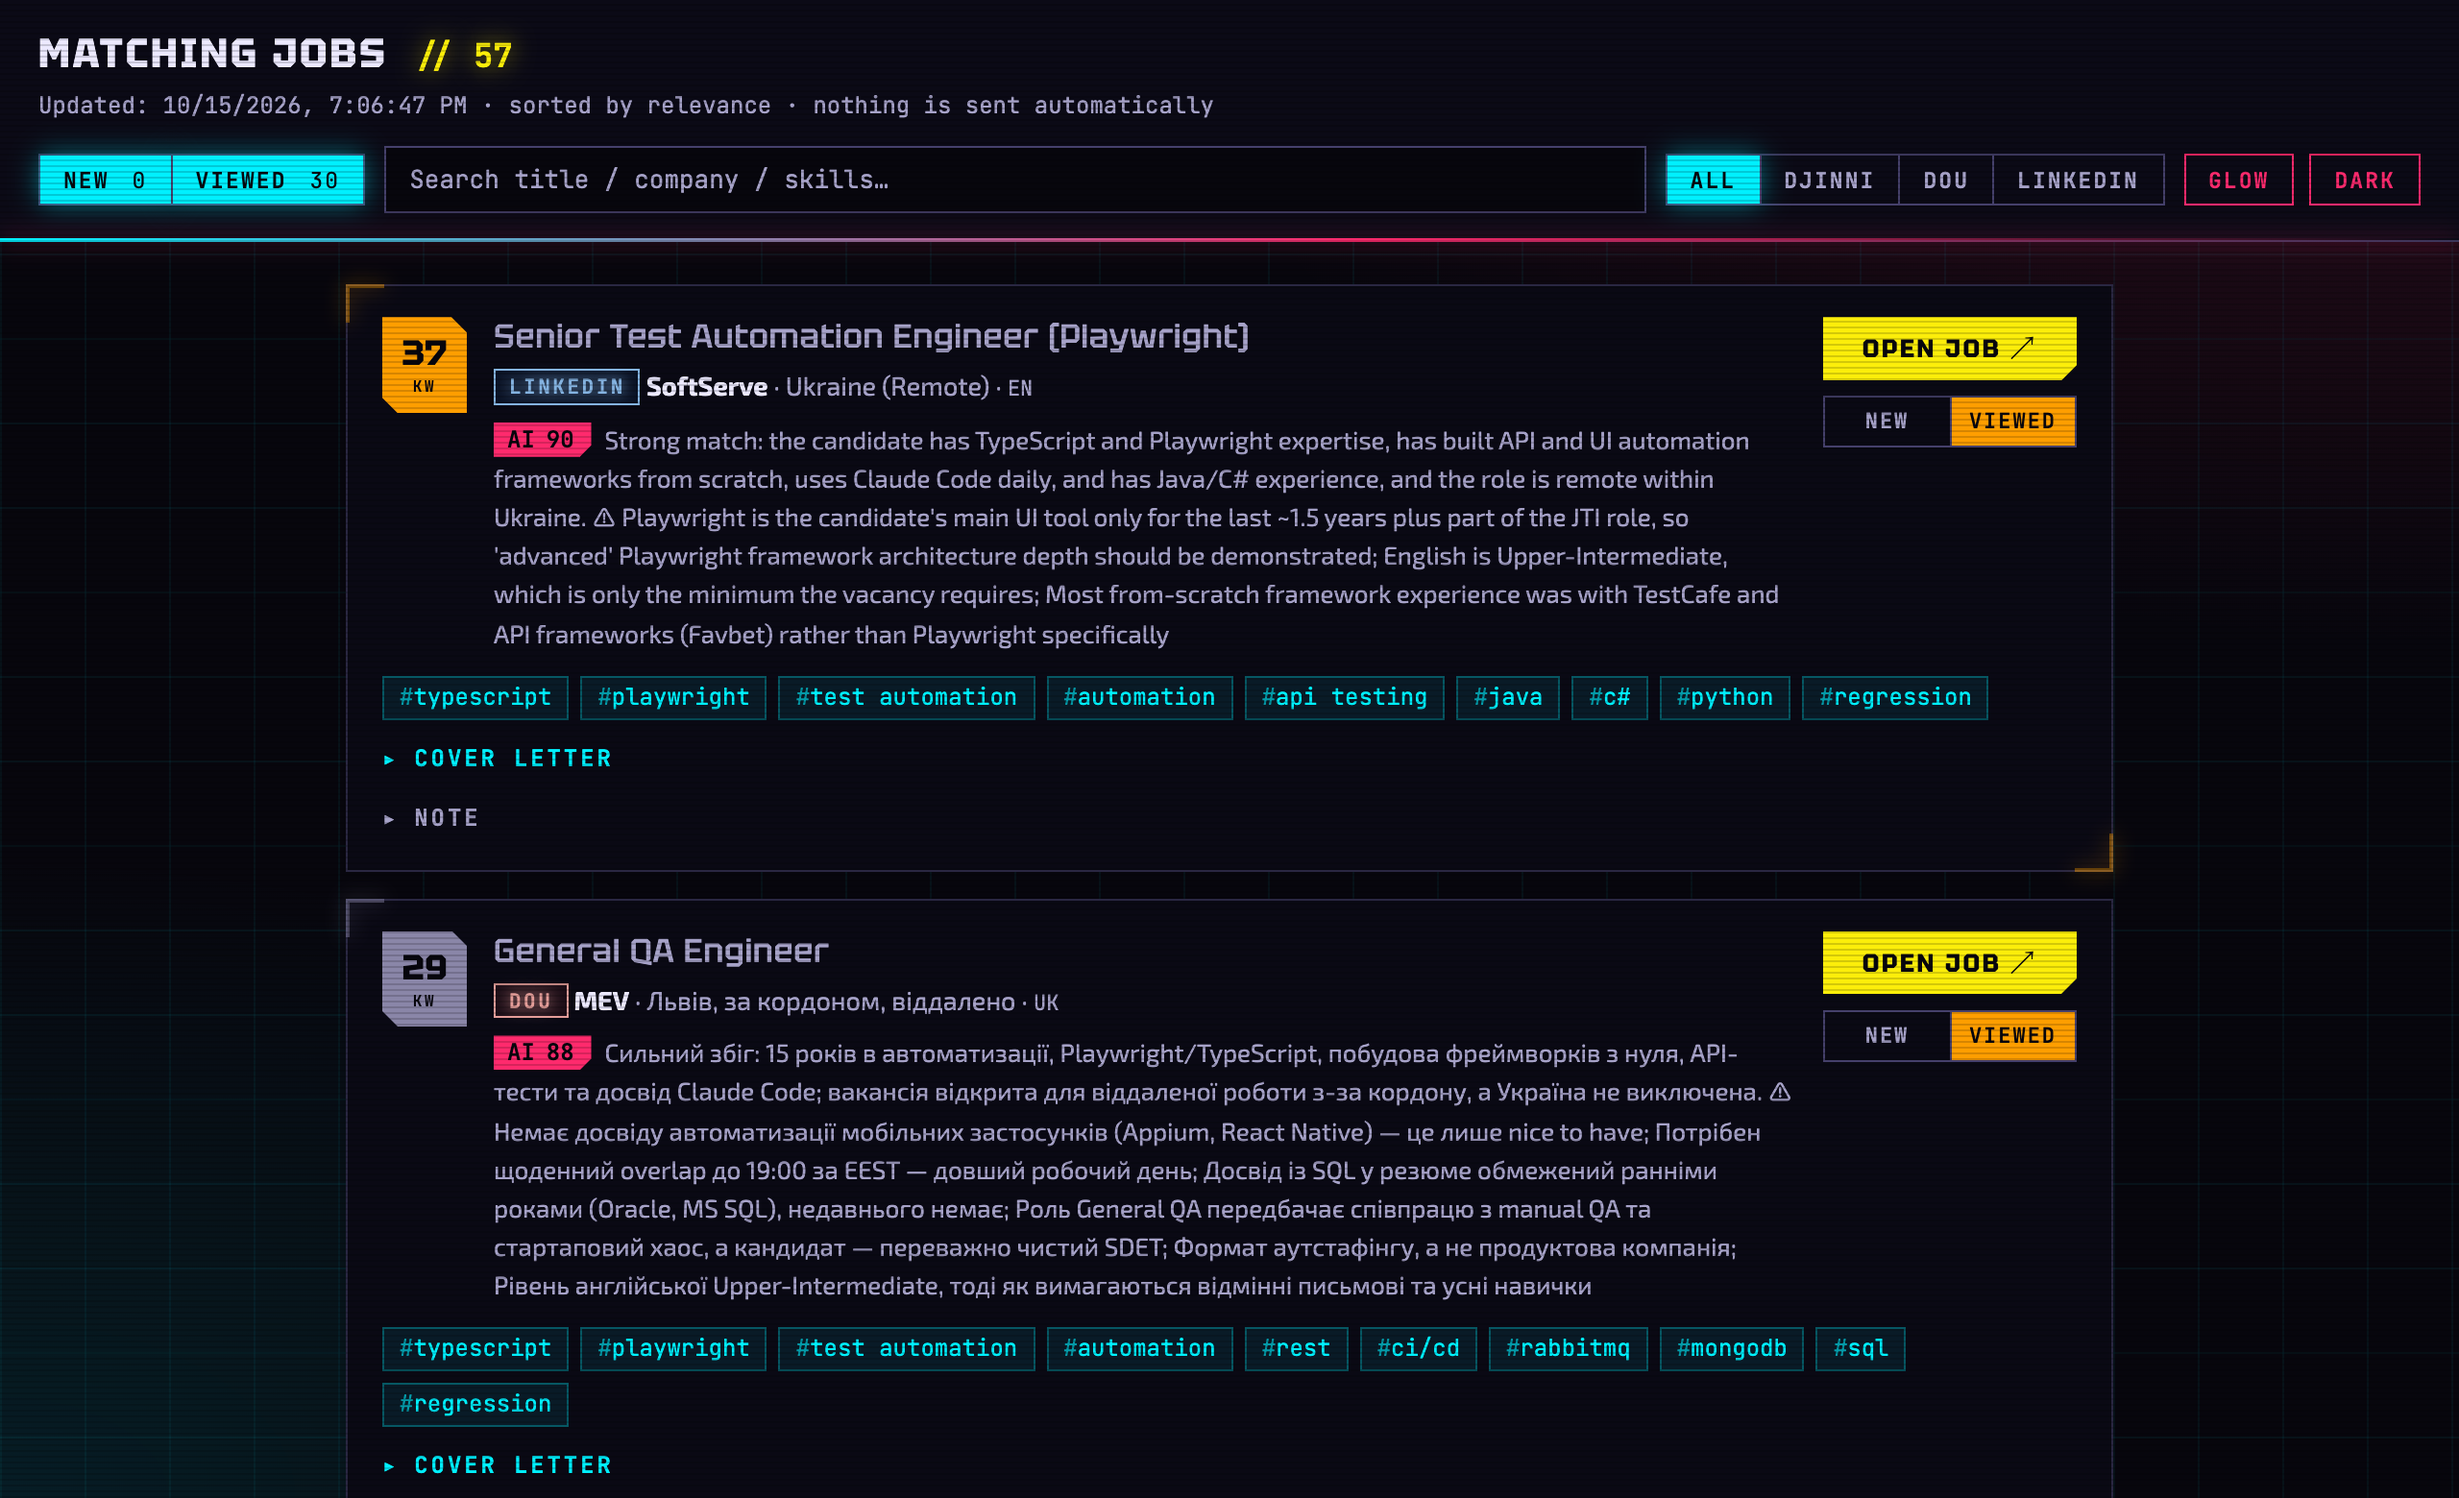
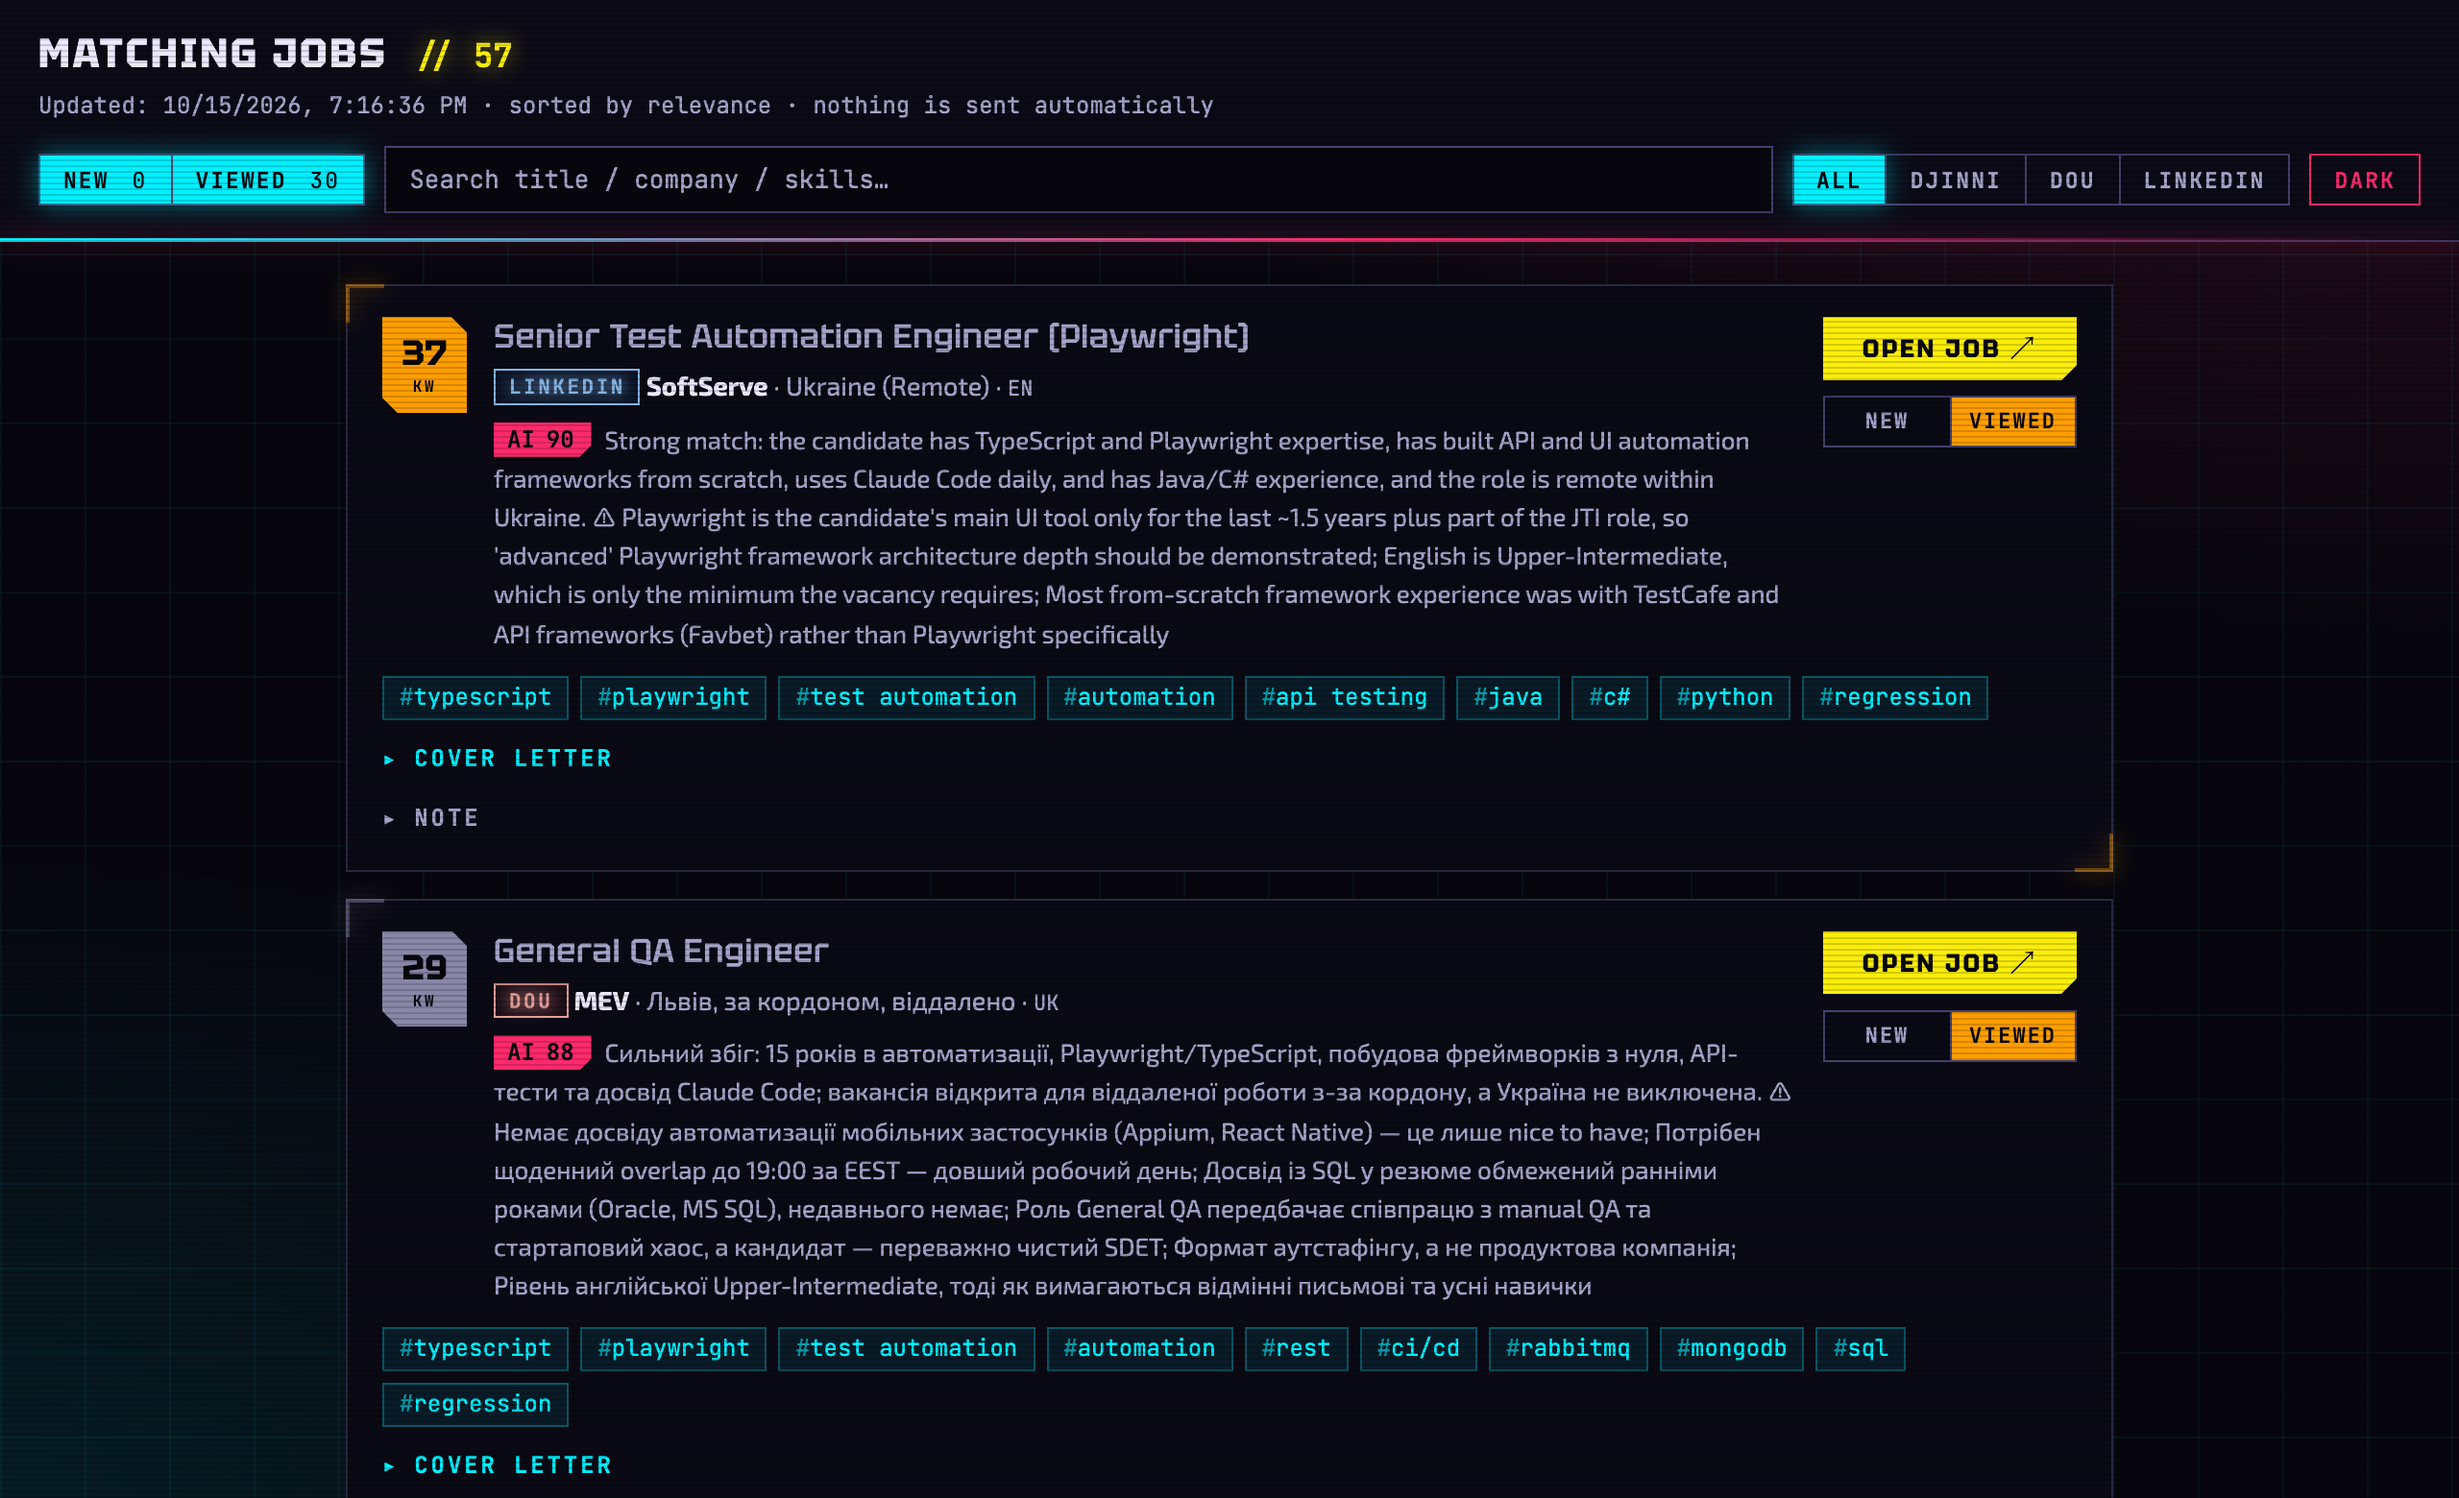
Drop the Glow toggle; Dark is the one header button, lit magenta
Two preference buttons crowded the toolbar. The dark theme now always
has its glow (halos, scanlines, title glitch), and the Dark button
takes the magenta "on" look the Glow button had, in both themes;
aria-pressed still carries which theme is pinned. The jobGlow key is
no longer read. prefers-reduced-motion still stops the animations.
Header screenshots retaken.

Changed region(s): [[0.6562, 0.0923, 0.9375, 0.1538]]

diff --git a/lib/dashboard-client-dom.js b/lib/dashboard-client-dom.js
@@ -354,25 +354,8 @@ function toggleTheme(){
   syncThemeButton();
 }
 
-// ---- Glow -------------------------------------------------------------
-// Neon halos, scanlines and the title glitch (the dark theme's effects). On by
-// default; the header button turns them off (data-glow="off" on <html>,
-// persisted) — the same inline <head> script re-applies it before paint.
-const GLOW_KEY = 'jobGlow';
-function syncGlowButton(){
-  const b = document.getElementById('glow'); if (!b) return;
-  b.setAttribute('aria-pressed', document.documentElement.dataset.glow === 'off' ? 'false' : 'true');   // label stays "Glow", aria-pressed carries the state
-}
-function toggleGlow(){
-  const off = document.documentElement.dataset.glow !== 'off';
-  if (off) document.documentElement.dataset.glow = 'off'; else delete document.documentElement.dataset.glow;
-  try { localStorage.setItem(GLOW_KEY, off ? 'off' : 'on'); } catch {}
-  syncGlowButton();
-}
-
 (async function init(){
   syncThemeButton();
-  syncGlowButton();
   await ready;
   cards.forEach(renderCard);
   markFreshness();

diff --git a/docs/dashboard.uk.md b/docs/dashboard.uk.md
@@ -60,9 +60,9 @@ New / Viewed з живими лічильниками, типово обрані
 **Тема** — кіберпанк-скін «Night City»: неоновий блакитний, малиновий і сигнальний
 жовтий на майже чорному в темному режимі, ті самі відтінки, але глибші, у світлому.
 Слідує системній світлій/темній; кнопка **Dark** закріплює одну з них (на цей
-браузер). Кожна пара текст/тло ≥ 4.5:1 в обох режимах. Кнопка **Glow** вимикає
-неонове світіння, лінії розгортки й «глітч» заголовка темного режиму (на цей
-браузер); `prefers-reduced-motion` зупиняє анімації й без неї.
+браузер). Кожна пара текст/тло ≥ 4.5:1 в обох режимах. Неонове світіння й лінії
+розгортки є лише в темному режимі; `prefers-reduced-motion` зупиняє «глітч»
+заголовка й пульсацію стрічки NEW.
 
 ![Світла тема](dashboard-light.png)
 

diff --git a/docs/dashboard.md b/docs/dashboard.md
@@ -61,9 +61,9 @@ daily closed-check run (see "Closed-vacancy check (`closed-check.mjs`)" below).
 **Theme** — a cyberpunk "Night City" skin: neon cyan, magenta and signal yellow
 on near-black in dark mode, the same hues deepened in light mode. It follows the
 system light/dark preference; the **Dark** button pins one or the other (per
-browser). Every text/background pair is ≥ 4.5:1 in both modes. The **Glow**
-button turns off the dark mode's neon halos, scanlines and title glitch (per
-browser); `prefers-reduced-motion` stops the animations by itself.
+browser). Every text/background pair is ≥ 4.5:1 in both modes. Neon halos and
+scanlines are dark-mode only; `prefers-reduced-motion` stops the title glitch
+and the NEW-ribbon pulse.
 
 ![Light theme](dashboard-light.png)
 
